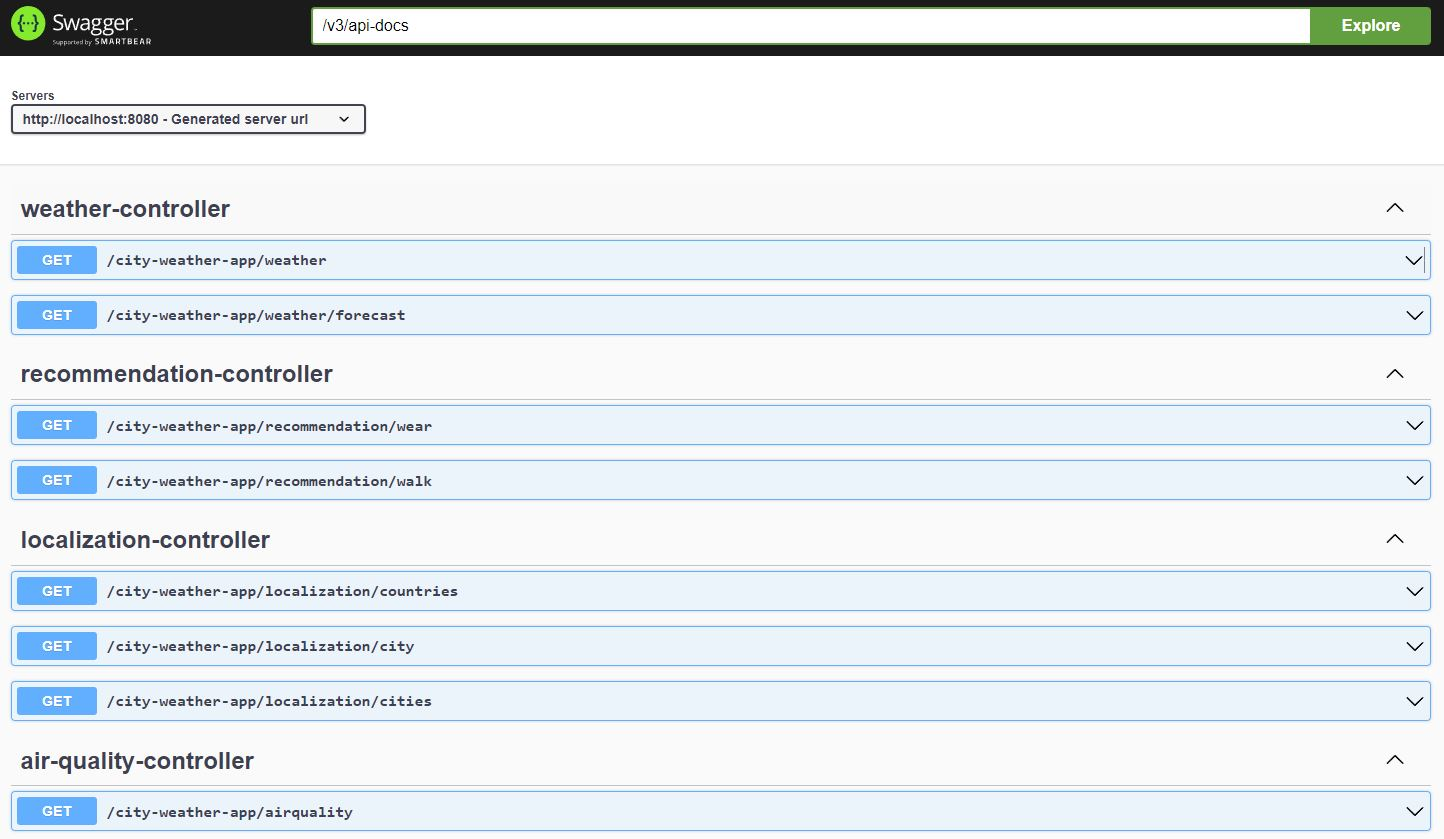
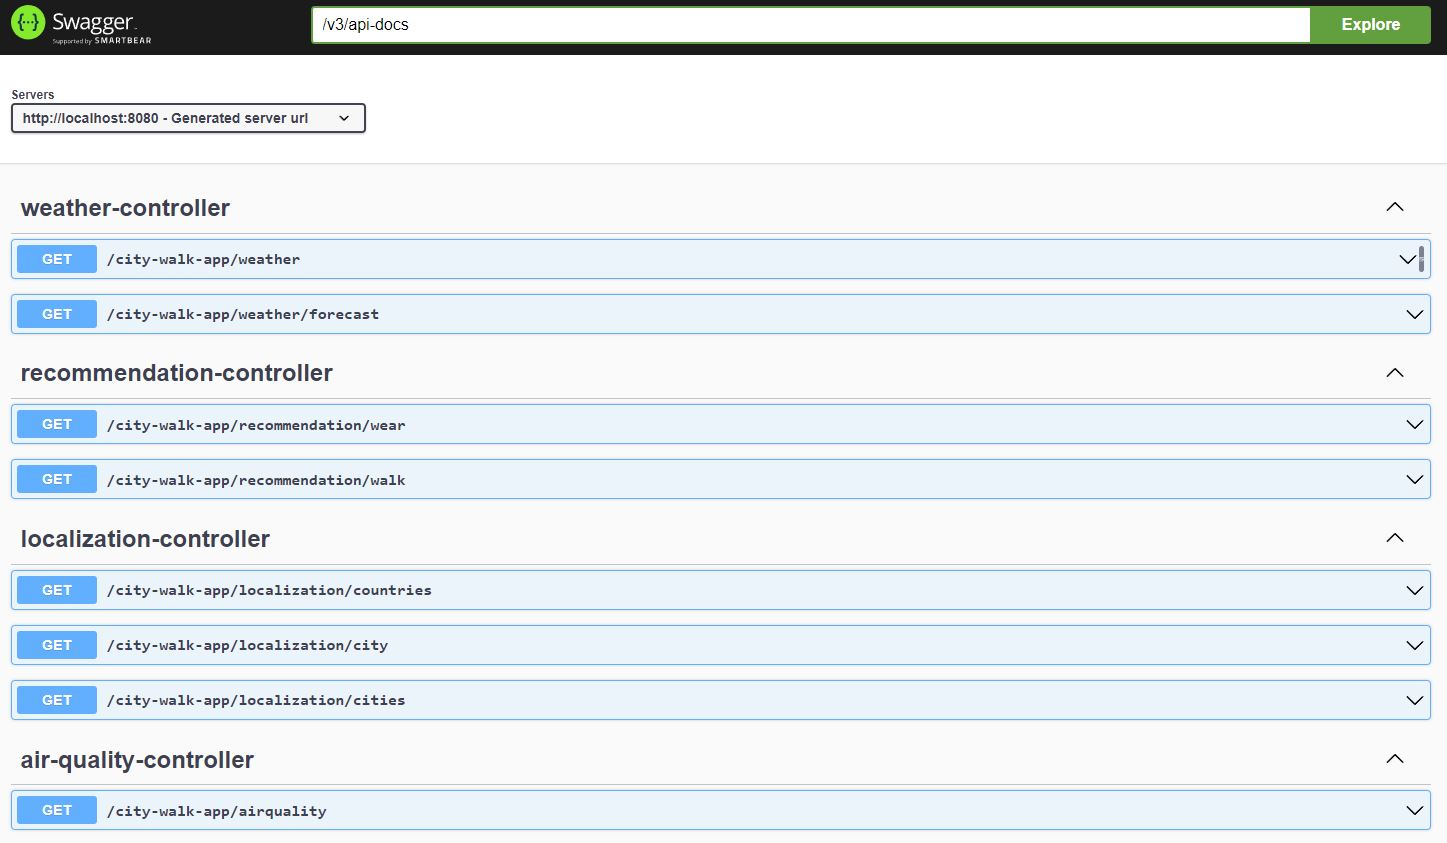
App name change from City Weather to City Walk
All endpoints path changed and also in other places

diff --git a/src/test/java/com/viepovsky/recommendation/RecommendationControllerTest.java b/src/test/java/com/viepovsky/recommendation/RecommendationControllerTest.java
@@ -35,7 +35,7 @@ class RecommendationControllerTest {
         Walk walkRecommendation = new Walk(Walk.AirQualityIndexScale.GOOD, Walk.UvIndexScale.MODERATE);
         when(service.getWalkRecommendation(anyString(), anyString())).thenReturn(walkRecommendation);
 
-        mockMvc.perform(MockMvcRequestBuilders.get("/city-weather-app/recommendation/walk")
+        mockMvc.perform(MockMvcRequestBuilders.get("/city-walk-app/recommendation/walk")
                         .param("latitude", "50.22")
                         .param("longitude", "5.22"))
                 .andExpect(MockMvcResultMatchers.status().isOk())
@@ -47,7 +47,7 @@ class RecommendationControllerTest {
         Wear wearRecommendation = new Wear(Wear.WeatherDescription.SCORCHING_HOT);
         when(service.getWearRecommendation(any(), anyString(), anyString())).thenReturn(wearRecommendation);
 
-        mockMvc.perform(MockMvcRequestBuilders.get("/city-weather-app/recommendation/wear")
+        mockMvc.perform(MockMvcRequestBuilders.get("/city-walk-app/recommendation/wear")
                         .param("date", LocalDate.now().toString())
                         .param("latitude", "50.22")
                         .param("longitude", "5.22"))
@@ -60,7 +60,7 @@ class RecommendationControllerTest {
         Wear wearRecommendation = new Wear(Wear.WeatherDescription.SCORCHING_HOT);
         when(service.getWearRecommendation(any(), anyString(), anyString())).thenReturn(wearRecommendation);
 
-        mockMvc.perform(MockMvcRequestBuilders.get("/city-weather-app/recommendation/wear")
+        mockMvc.perform(MockMvcRequestBuilders.get("/city-walk-app/recommendation/wear")
                         .param("date", LocalDate.now().plusDays(12).toString())
                         .param("latitude", "50.22")
                         .param("longitude", "5.22"))

diff --git a/src/test/java/com/viepovsky/localization/LocalizationControllerTest.java b/src/test/java/com/viepovsky/localization/LocalizationControllerTest.java
@@ -34,7 +34,7 @@ class LocalizationControllerTest {
         List<CountryResponse> countryResponses = List.of(new CountryResponse());
         when(facade.getCountries()).thenReturn(countryResponses);
 
-        mockMvc.perform(MockMvcRequestBuilders.get("/city-weather-app/localization/countries"))
+        mockMvc.perform(MockMvcRequestBuilders.get("/city-walk-app/localization/countries"))
                 .andExpect(MockMvcResultMatchers.status().isOk())
                 .andExpect(MockMvcResultMatchers.jsonPath("$", Matchers.hasSize(1)));
     }
@@ -44,7 +44,7 @@ class LocalizationControllerTest {
         List<CityResponse> cityResponses = List.of(new CityResponse());
         when(facade.getCities(anyString())).thenReturn(cityResponses);
 
-        mockMvc.perform(MockMvcRequestBuilders.get("/city-weather-app/localization/cities")
+        mockMvc.perform(MockMvcRequestBuilders.get("/city-walk-app/localization/cities")
                         .param("country-code", "PL"))
                 .andExpect(MockMvcResultMatchers.status().isOk())
                 .andExpect(MockMvcResultMatchers.jsonPath("$", Matchers.hasSize(1)));
@@ -55,7 +55,7 @@ class LocalizationControllerTest {
         var city = new CityResponse();
         when(facade.getCity(anyString(), anyString())).thenReturn(city);
 
-        mockMvc.perform(MockMvcRequestBuilders.get("/city-weather-app/localization/city")
+        mockMvc.perform(MockMvcRequestBuilders.get("/city-walk-app/localization/city")
                         .param("country-code", "PL")
                         .param("city", "Poznań"))
                 .andExpect(MockMvcResultMatchers.status().isOk())

diff --git a/src/test/java/com/viepovsky/api/weather/WeatherControllerTest.java b/src/test/java/com/viepovsky/api/weather/WeatherControllerTest.java
@@ -1,6 +1,5 @@
 package com.viepovsky.api.weather;
 
-import com.fasterxml.jackson.core.JsonProcessingException;
 import com.fasterxml.jackson.databind.ObjectMapper;
 import com.viepovsky.api.weather.dto.CurrentWeather;
 import com.viepovsky.api.weather.dto.ForecastWeather;
@@ -36,9 +35,9 @@ class WeatherControllerTest {
         var jsonResponse = new ObjectMapper().writeValueAsString(currentWeather);
         when(service.fetchCurrentWeather(anyString(), anyString())).thenReturn(currentWeather);
 
-        mockMvc.perform(MockMvcRequestBuilders.get("/city-weather-app/weather")
-                .param("latitude", "50.22")
-                .param("longitude", "5.22"))
+        mockMvc.perform(MockMvcRequestBuilders.get("/city-walk-app/weather")
+                        .param("latitude", "50.22")
+                        .param("longitude", "5.22"))
                 .andExpect(MockMvcResultMatchers.status().isOk())
                 .andExpect(MockMvcResultMatchers.content().json(jsonResponse));
     }
@@ -49,7 +48,7 @@ class WeatherControllerTest {
         var jsonResponse = new ObjectMapper().writeValueAsString(forecast);
         when(service.fetchForecastWeather(anyString(), anyString())).thenReturn(forecast);
 
-        mockMvc.perform(MockMvcRequestBuilders.get("/city-weather-app/weather/forecast")
+        mockMvc.perform(MockMvcRequestBuilders.get("/city-walk-app/weather/forecast")
                         .param("latitude", "50.22")
                         .param("longitude", "5.22"))
                 .andExpect(MockMvcResultMatchers.status().isOk())

diff --git a/src/test/java/com/viepovsky/api/airquality/AirQualityControllerTest.java b/src/test/java/com/viepovsky/api/airquality/AirQualityControllerTest.java
@@ -33,7 +33,7 @@ class AirQualityControllerTest {
         String jsonResponse = new ObjectMapper().writeValueAsString(airQuality);
         when(service.getAirQuality(anyString(), anyString())).thenReturn(airQuality);
 
-        mockMvc.perform(MockMvcRequestBuilders.get("/city-weather-app/airquality")
+        mockMvc.perform(MockMvcRequestBuilders.get("/city-walk-app/airquality")
                         .param("latitude", "50.22")
                         .param("longitude", "5.22"))
                 .andExpect(MockMvcResultMatchers.status().isOk())

diff --git a/src/main/java/com/viepovsky/recommendation/RecommendationService.java b/src/main/java/com/viepovsky/recommendation/RecommendationService.java
@@ -59,7 +59,7 @@ public class RecommendationService {
 
     private URI buildUri(String endpoint, String latitude, String longitude) {
         return UriComponentsBuilder
-                .fromHttpUrl("http://localhost:8080/city-weather-app/" + endpoint)
+                .fromHttpUrl("http://localhost:8080/city-walk-app/" + endpoint)
                 .queryParam("latitude", latitude)
                 .queryParam("longitude", longitude)
                 .encode()

diff --git a/src/main/java/com/viepovsky/CityWalkApplication.java b/src/main/java/com/viepovsky/CityWalkApplication.java
@@ -6,10 +6,10 @@ import org.springframework.boot.autoconfigure.SpringBootApplication;
 
 @SpringBootApplication
 @OpenAPIDefinition
-public class CityWeatherApplication {
+public class CityWalkApplication {
 
     public static void main(String[] args) {
-        SpringApplication.run(CityWeatherApplication.class, args);
+        SpringApplication.run(CityWalkApplication.class, args);
     }
 
 }

diff --git a/src/main/java/com/viepovsky/api/airquality/AirQualityController.java b/src/main/java/com/viepovsky/api/airquality/AirQualityController.java
@@ -11,7 +11,7 @@ import org.springframework.web.bind.annotation.RequestParam;
 import org.springframework.web.bind.annotation.RestController;
 
 @RestController
-@RequestMapping(path = "/city-weather-app/airquality")
+@RequestMapping(path = "/city-walk-app/airquality")
 @RequiredArgsConstructor
 class AirQualityController {
     private final AirQualityService service;

diff --git a/src/test/java/com/viepovsky/api/weather/WeatherServiceTest.java b/src/test/java/com/viepovsky/api/weather/WeatherServiceTest.java
@@ -13,7 +13,8 @@ import org.mockito.junit.jupiter.MockitoExtension;
 
 import java.util.List;
 
-import static org.junit.jupiter.api.Assertions.*;
+import static org.junit.jupiter.api.Assertions.assertEquals;
+import static org.junit.jupiter.api.Assertions.assertNotNull;
 import static org.mockito.ArgumentMatchers.anyString;
 import static org.mockito.Mockito.*;
 

diff --git a/src/test/java/com/viepovsky/api/airquality/AirQualityServiceTest.java b/src/test/java/com/viepovsky/api/airquality/AirQualityServiceTest.java
@@ -10,7 +10,7 @@ import org.mockito.InjectMocks;
 import org.mockito.Mock;
 import org.mockito.junit.jupiter.MockitoExtension;
 
-import static org.junit.jupiter.api.Assertions.*;
+import static org.junit.jupiter.api.Assertions.assertNotNull;
 import static org.mockito.ArgumentMatchers.anyString;
 import static org.mockito.Mockito.*;
 

diff --git a/src/main/java/com/viepovsky/recommendation/RecommendationController.java b/src/main/java/com/viepovsky/recommendation/RecommendationController.java
@@ -16,7 +16,7 @@ import org.springframework.web.bind.annotation.RestController;
 import java.time.LocalDate;
 
 @RestController
-@RequestMapping("city-weather-app/recommendation")
+@RequestMapping("city-walk-app/recommendation")
 @RequiredArgsConstructor
 @Validated
 public class RecommendationController {

diff --git a/src/main/java/com/viepovsky/localization/LocalizationController.java b/src/main/java/com/viepovsky/localization/LocalizationController.java
@@ -15,7 +15,7 @@ import java.util.List;
 
 @RestController
 @RequiredArgsConstructor
-@RequestMapping(path = "/city-weather-app/localization")
+@RequestMapping(path = "/city-walk-app/localization")
 @Validated
 class LocalizationController {
     private final LocalizationFacade facade;

diff --git a/src/main/java/com/viepovsky/api/weather/WeatherController.java b/src/main/java/com/viepovsky/api/weather/WeatherController.java
@@ -14,7 +14,7 @@ import org.springframework.web.bind.annotation.RestController;
 import java.util.List;
 
 @RestController
-@RequestMapping("/city-weather-app/weather")
+@RequestMapping("/city-walk-app/weather")
 @RequiredArgsConstructor
 @Validated
 class WeatherController {
